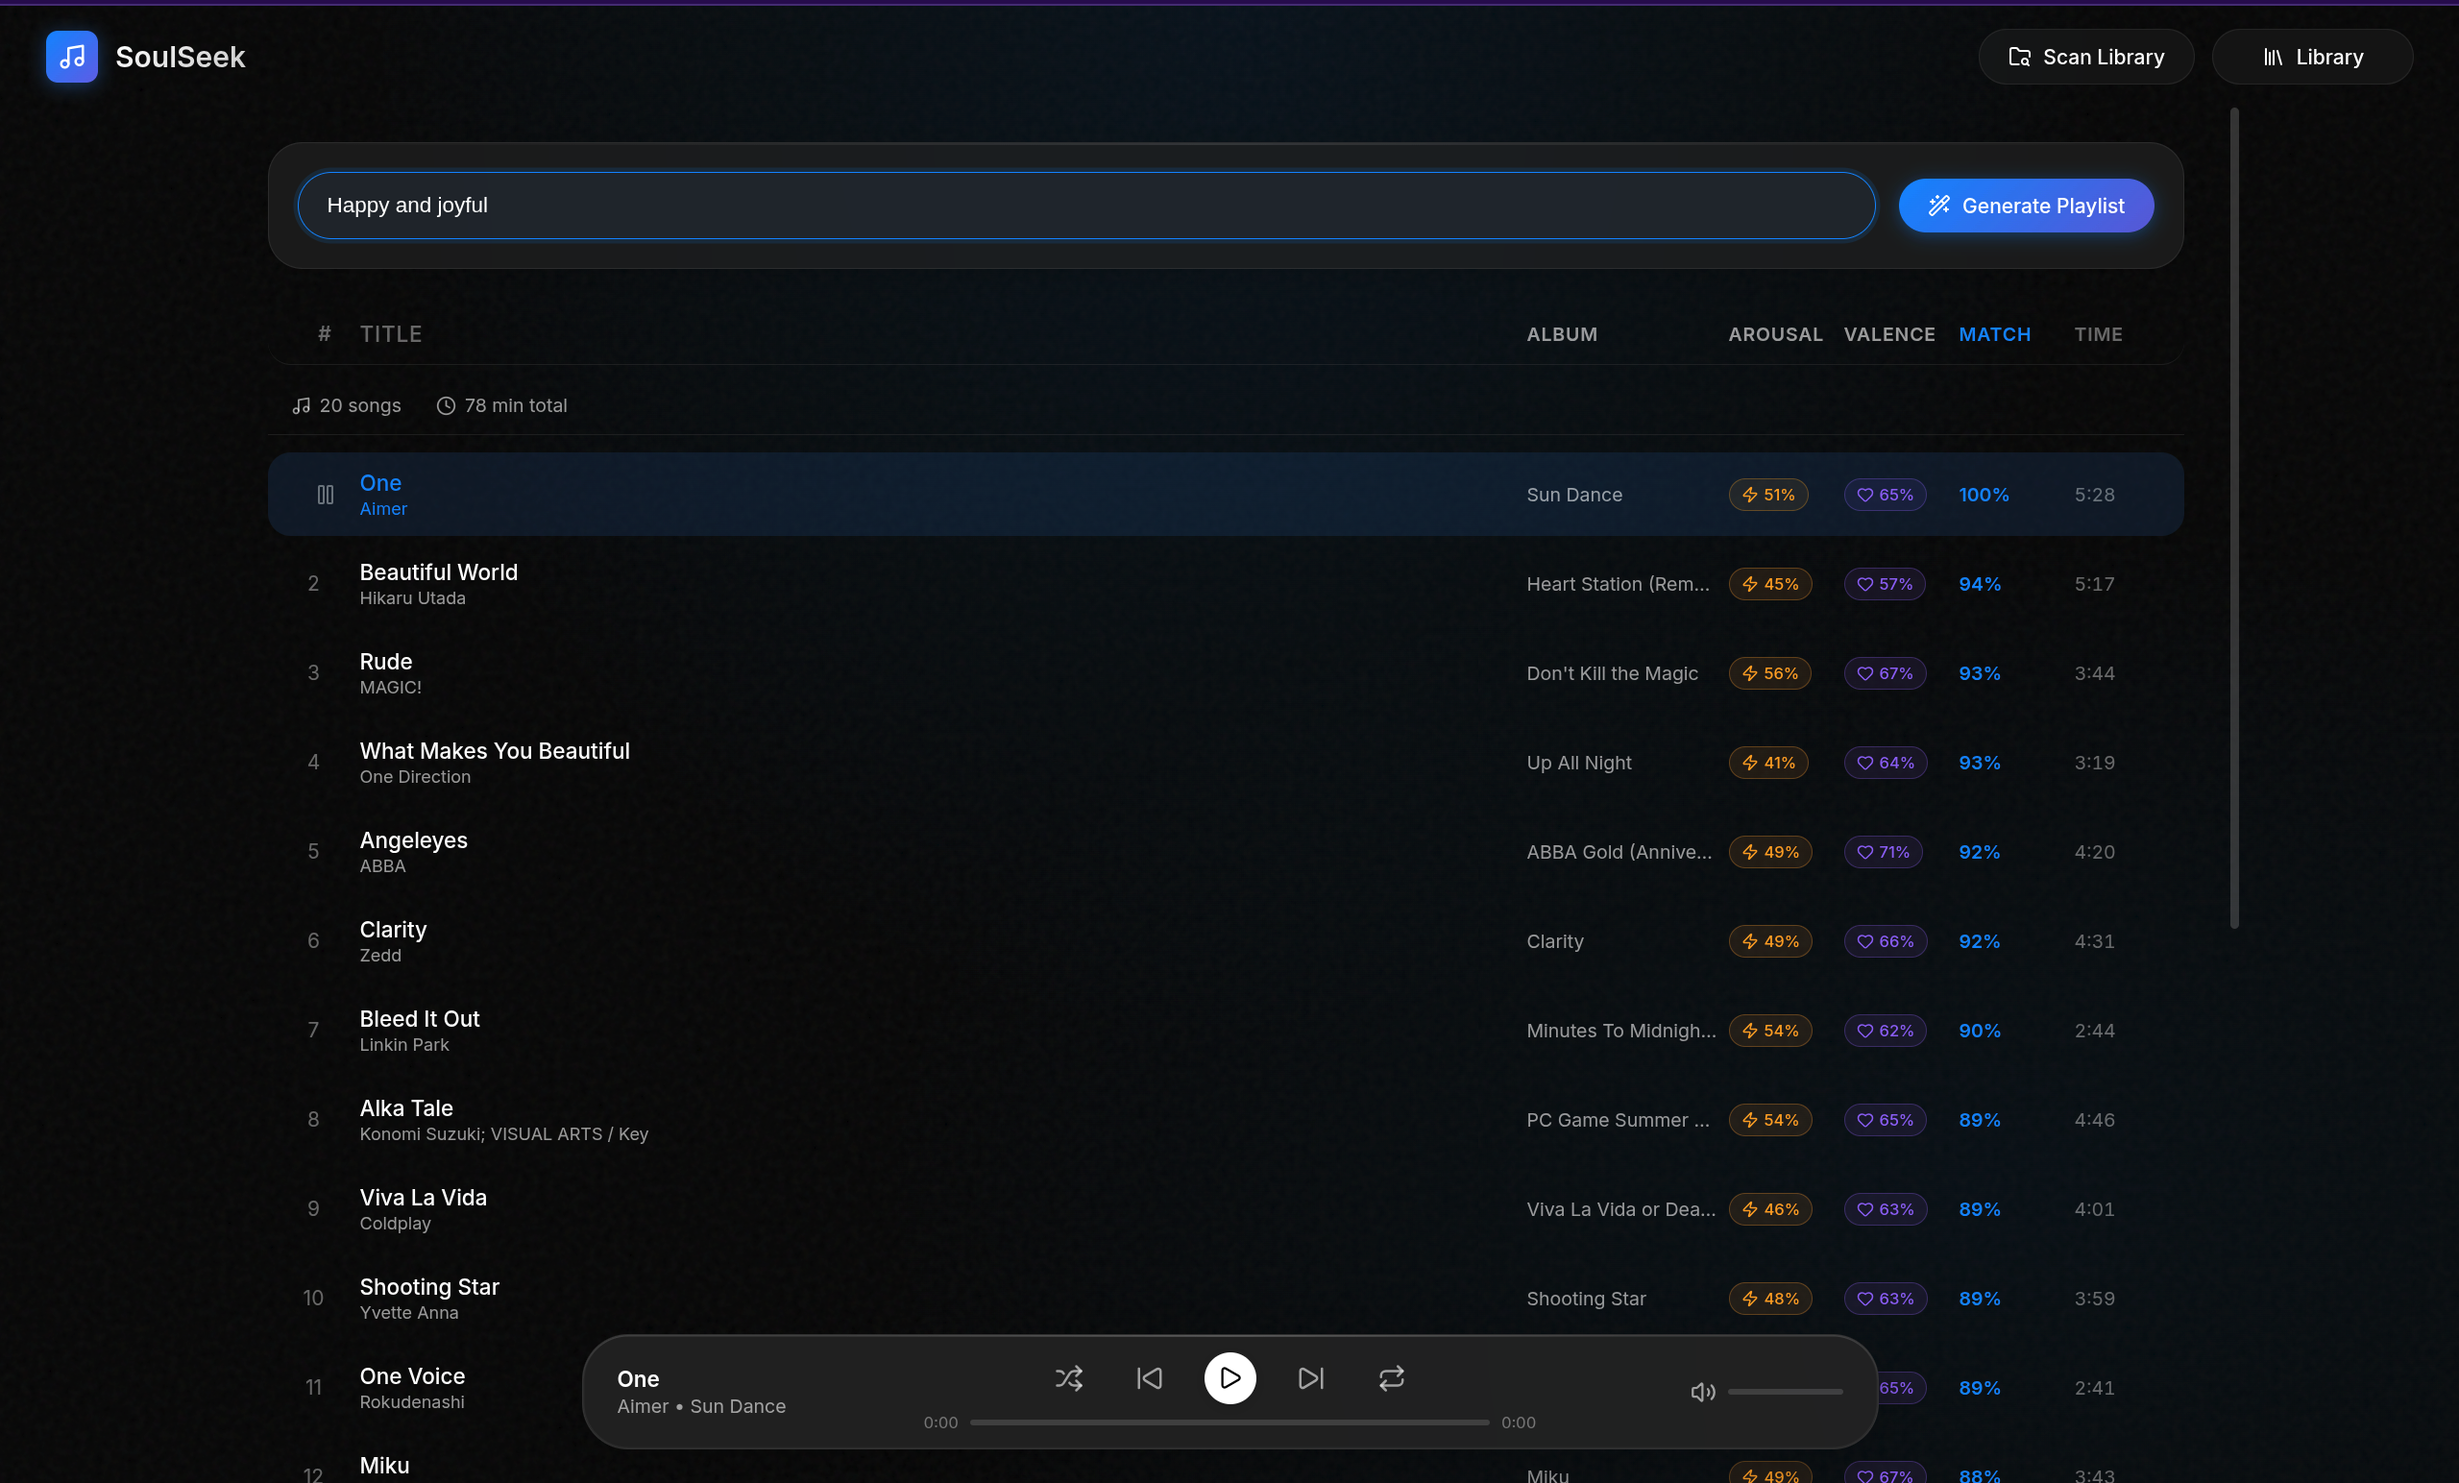
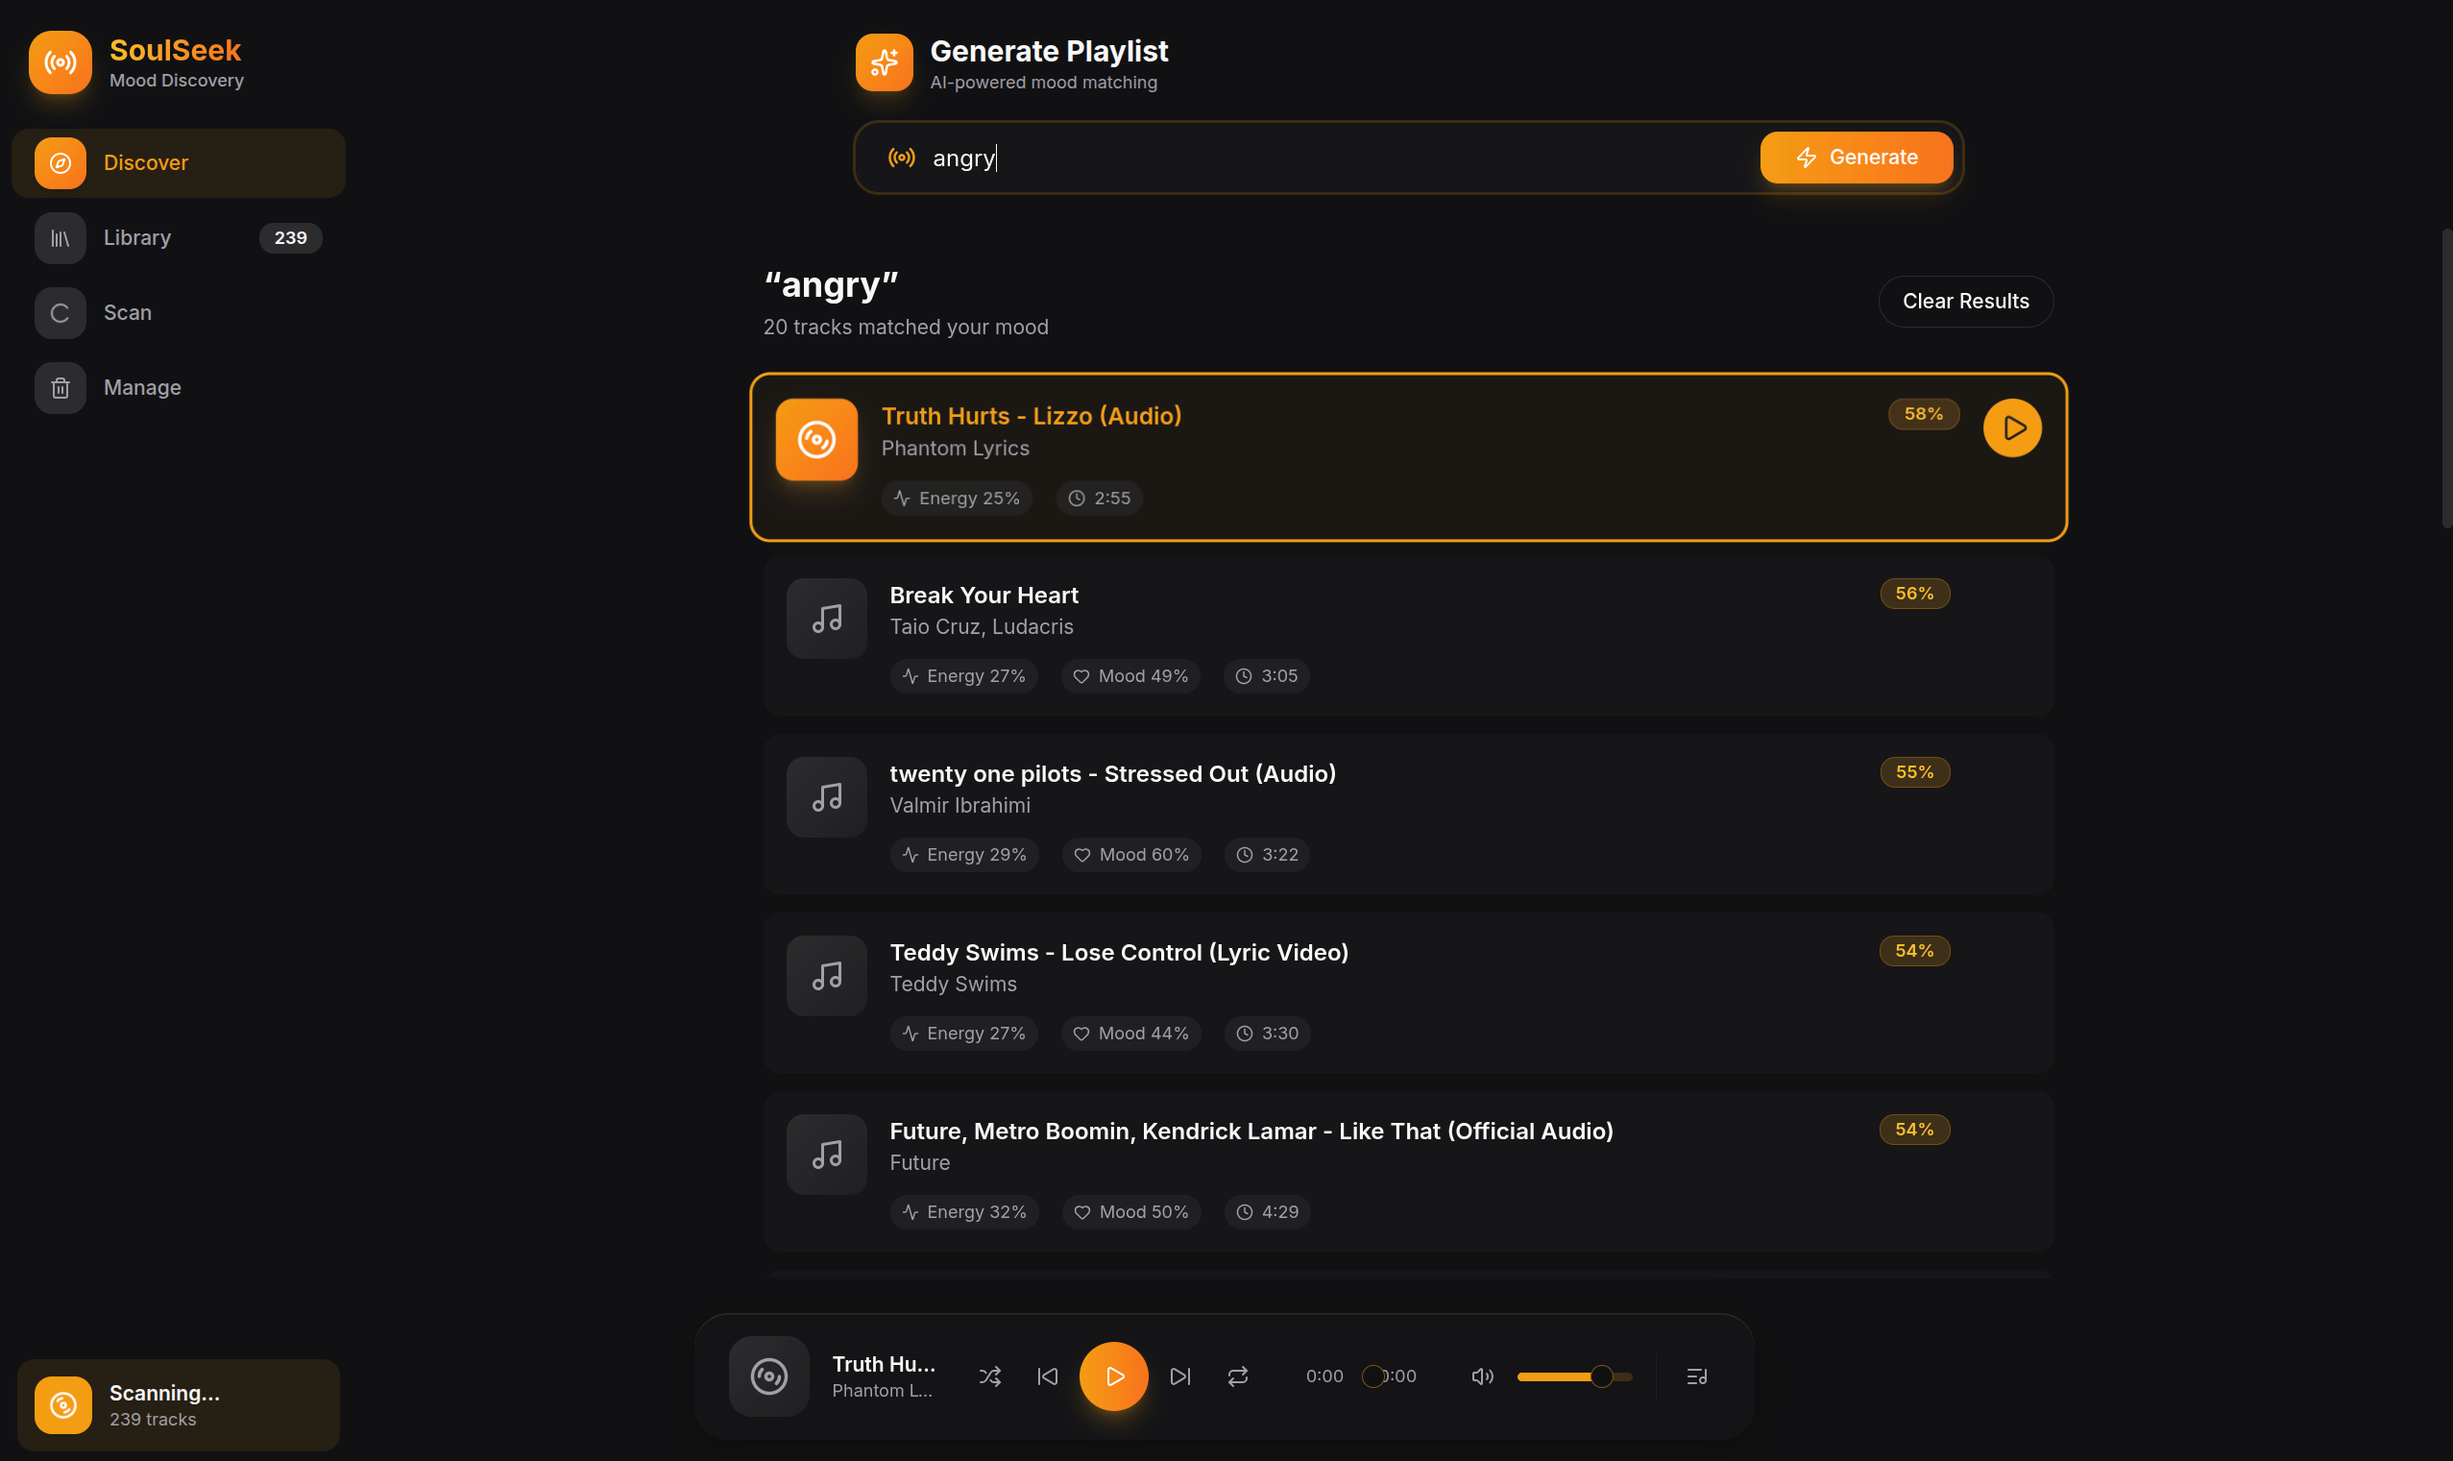
update again

diff --git a/index.html b/index.html
@@ -295,7 +295,7 @@
 </head>
 <body onload="startTimer()">
 <!-- Timer -->
-    <div id="timerContainer" class="fixed bottom-10 right-10 px-8 py-4 rounded-3xl flex items-center gap-4">
+    <div id="timerContainer" class="fixed bottom-10 right-10 px-8 py-4 rounded-3xl flex items-center gap-4 z-[9999]">
         <i class="fas fa-hourglass-start text-amber-600 text-2xl" id="timerIcon"></i>
         <span id="displayTime" class="text-4xl font-black font-mono tracking-tighter">00:00</span>
     </div>
@@ -303,7 +303,6 @@
     <!-- Sidebar -->
     <aside class="sidebar">
         <div class="sidebar-logo">
-            <div class="sidebar-logo-icon">SS</div>
             <div>
                 <div class="font-bold text-white text-lg">SoulSeeker</div>
                 <div class="text-xs text-amber-500 uppercase tracking-wider">PBL 2026</div>
@@ -339,9 +338,9 @@
                 <i class="fas fa-chart-bar"></i>
                 Results
             </a>
-            <a href="#team">
-                <i class="fas fa-users"></i>
-                Team
+            <a href="#credits">
+                <i class="fas fa-award"></i>
+                Credits
             </a>
         </nav>
         
@@ -382,7 +381,7 @@
             </div>
             
             <!-- Demo Screenshot -->
-            <div class="max-w-2xl mx-auto">
+            <div class="max-w-4xl mx-auto">
                 <div class="glass rounded-2xl p-1 border border-stone-700/50">
                     <img src="showcase.png" alt="Application Demo" class="rounded-xl w-full">
                 </div>
@@ -737,7 +736,7 @@
                         <circle cx="135" cy="210" r="5" fill="#7c3aed"/>
                         <text x="135" y="226" text-anchor="middle" fill="#7c3aed" font-size="10">dark</text>
                     </svg>
-                    <p class="text-slate-500 text-center mt-4 text-sm">Figure 2: Mood positions on the Arousal-Valence plane</p>
+                    <p class="text-slate-500 text-center mt-4 text-sm">Figure 4: Mood positions on the Arousal-Valence plane</p>
                 </div>
                     <div class="space-y-6">
                     <div class="glass p-6 rounded-2xl hover-lift border-l-4 border-amber-500">
@@ -802,11 +801,11 @@
             <div class="space-y-8">
                 <div class="glass p-6 rounded-[2rem] border border-slate-700/50">
                     <img src="diagrams/flowchart.png" alt="System Flow Chart" class="rounded-xl w-full">
-                    <p class="text-stone-500 text-sm mt-4 text-center">Figure 1: Complete System Flow - From Audio Input to Playlist Output</p>
+                    <p class="text-stone-500 text-sm mt-4 text-center">Figure 2: Complete System Flow - From Audio Input to Playlist Output</p>
                 </div>
                 <div class="glass p-6 rounded-[2rem] border border-slate-700/50">
                     <img src="diagrams/data_flow_diagram.png" alt="Data Flow Diagram" class="rounded-xl w-full">
-                    <p class="text-stone-500 text-sm mt-4 text-center">Figure 2: Data Flow Diagram - Indexing & Retrieval Pipelines</p>
+                    <p class="text-stone-500 text-sm mt-4 text-center">Figure 3: Data Flow Diagram - Indexing & Retrieval Pipelines</p>
                 </div>
             </div>
 
@@ -1115,8 +1114,8 @@
             </div>
         </section>
 
-        <!-- Team Section -->
-        <section id="team" class="text-center pt-10 border-t border-slate-900 animate-fadeInUp">
+        <!-- Academic Credits -->
+        <section id="credits" class="text-center pt-10 border-t border-slate-900 animate-fadeInUp">
             <h2 class="text-[10px] font-black text-slate-600 uppercase tracking-[0.5em] mb-12">Academic Credits</h2>
             <div class="flex flex-wrap justify-center gap-10">
                 <div class="glass px-12 py-8 rounded-[2rem] border-b-4 border-blue-600 hover-lift">
@@ -1133,18 +1132,7 @@
         </section>
     </main>
 
-    <footer class="py-8 text-center" style="margin-left: 280px;">
-        <div class="flex justify-center gap-8 mb-4">
-            <div class="glass px-8 py-4 rounded-2xl border-b-2 border-amber-500">
-                <p class="text-[9px] font-bold text-amber-500 mb-1 uppercase tracking-widest">Project Guide</p>
-                <p class="font-bold text-white">Dr. Virendra Kumar Meghwal</p>
-            </div>
-            <div class="glass px-8 py-4 rounded-2xl border-b-2 border-slate-700">
-                <p class="text-[9px] font-bold text-slate-400 mb-1 uppercase tracking-widest">Student</p>
-                <p class="font-bold text-white">Ankit Bangadkar</p>
-                <p class="text-[10px] text-slate-500 mt-1">ID: 2427030148</p>
-            </div>
-        </div>
+    <footer class="py-6 text-center" style="margin-left: 280px;">
         <p class="text-stone-600 text-xs">Manipal University Jaipur - Department of CSE - 2026</p>
     </footer>
 
@@ -1222,9 +1210,12 @@
                 e.preventDefault();
                 const target = document.querySelector(this.getAttribute('href'));
                 if (target) {
-                    target.scrollIntoView({
-                        behavior: 'smooth',
-                        block: 'start'
+                    const headerOffset = 100;
+                    const elementPosition = target.getBoundingClientRect().top;
+                    const offsetPosition = elementPosition + window.pageYOffset - headerOffset;
+                    window.scrollTo({
+                        top: offsetPosition,
+                        behavior: 'smooth'
                     });
                 }
             });
